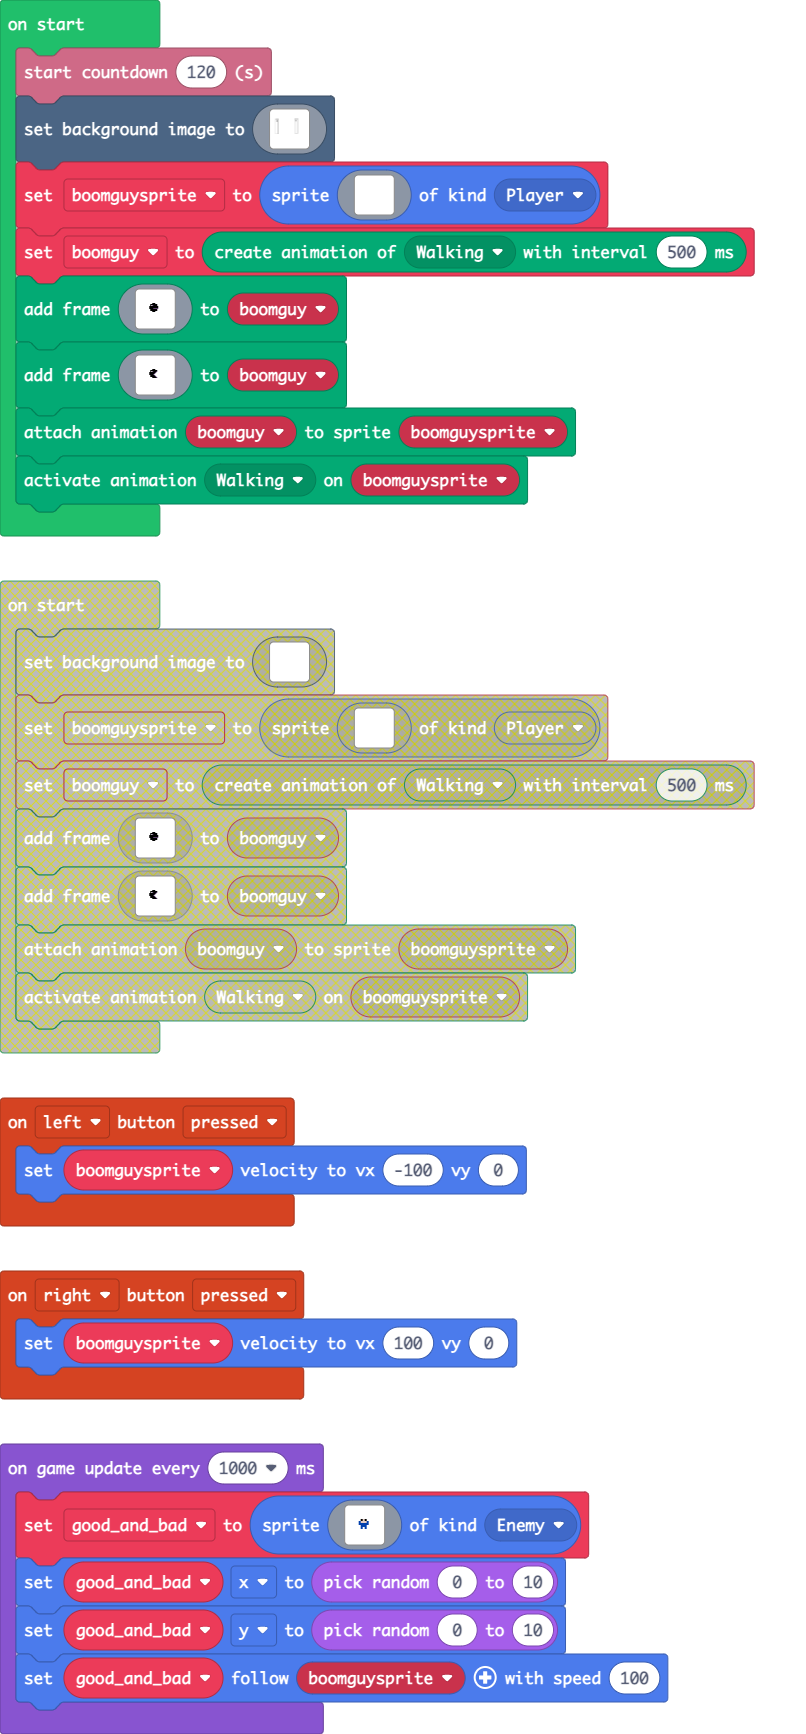
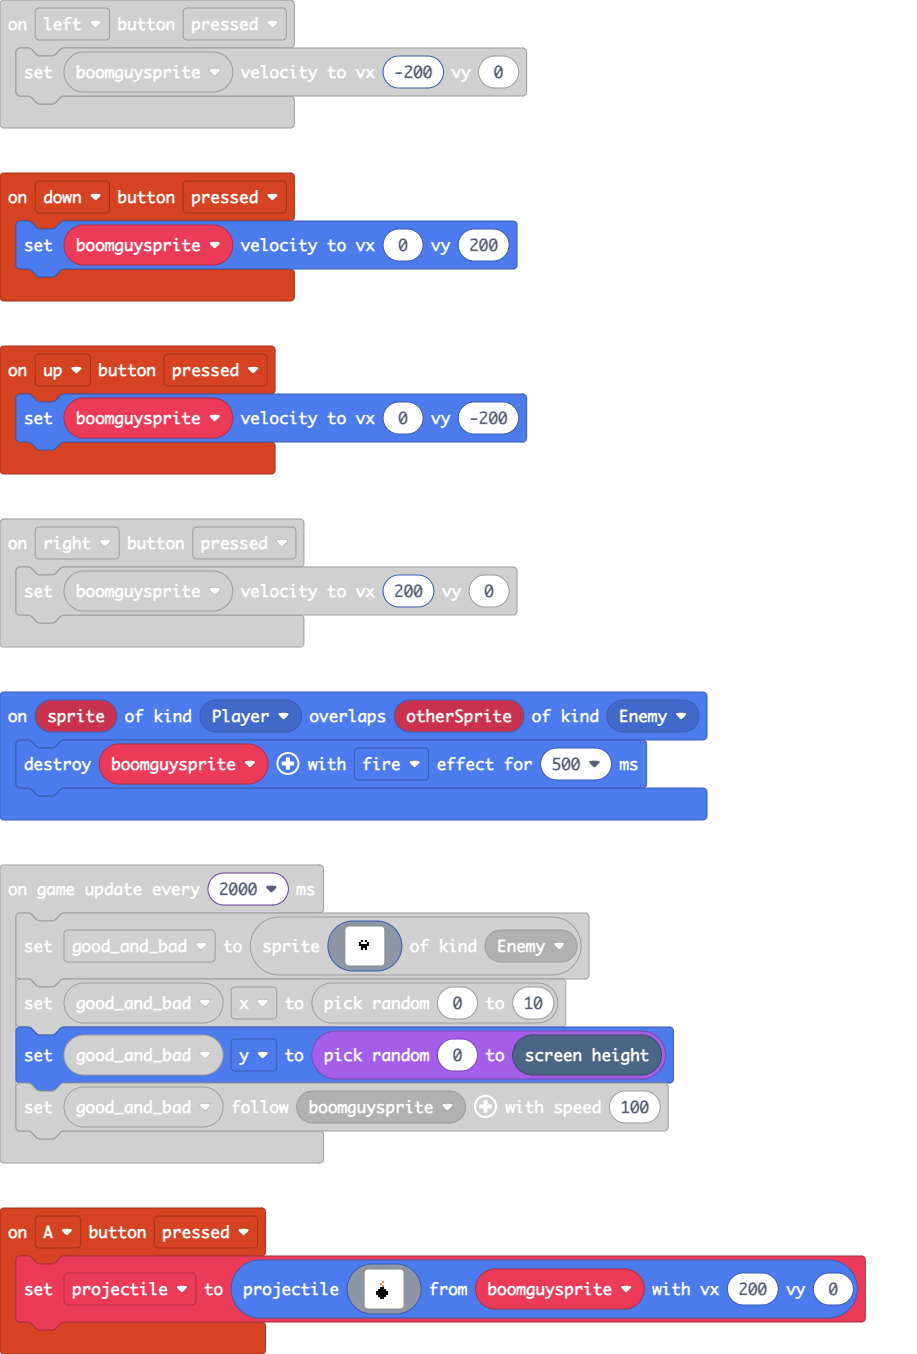
Update main.blocks, main.ts

diff --git a/main.ts b/main.ts
@@ -3,13 +3,43 @@ enum ActionKind {
     Idle,
     Jumping
 }
+controller.up.onEvent(ControllerButtonEvent.Pressed, function () {
+    boomguysprite.setVelocity(0, -200)
+})
+controller.A.onEvent(ControllerButtonEvent.Pressed, function () {
+    projectile = sprites.createProjectileFromSprite(img`
+        . . . . . . . . . . . . . . . . 
+        . . . . . . . . . . . . . . . . 
+        . . . . . . . . . . . . . . . . 
+        . . . . . . . . . . . . . . . . 
+        . . . . . . . 4 . . . . . . . . 
+        . . . . . . 4 . . . . . . . . . 
+        . . . . . . . 4 . . . . . . . . 
+        . . . . . . f f . . . . . . . . 
+        . . . . . f f f f . . . . . . . 
+        . . . . f f f f f f . . . . . . 
+        . . . . f f f f f f . . . . . . 
+        . . . . . f f f f . . . . . . . 
+        . . . . . . f f . . . . . . . . 
+        . . . . . . . . . . . . . . . . 
+        . . . . . . . . . . . . . . . . 
+        . . . . . . . . . . . . . . . . 
+        `, boomguysprite, 200, 0)
+})
 controller.left.onEvent(ControllerButtonEvent.Pressed, function () {
-    boomguysprite.setVelocity(-100, 0)
+    boomguysprite.setVelocity(-200, 0)
 })
 controller.right.onEvent(ControllerButtonEvent.Pressed, function () {
-    boomguysprite.setVelocity(100, 0)
+    boomguysprite.setVelocity(200, 0)
+})
+controller.down.onEvent(ControllerButtonEvent.Pressed, function () {
+    boomguysprite.setVelocity(0, 200)
+})
+sprites.onOverlap(SpriteKind.Player, SpriteKind.Enemy, function (sprite, otherSprite) {
+    boomguysprite.destroy(effects.fire, 500)
 })
 let good_and_bad: Sprite = null
+let projectile: Sprite = null
 let boomguysprite: Sprite = null
 info.startCountdown(120)
 scene.setBackgroundImage(img`
@@ -223,18 +253,18 @@ boomguy.addAnimationFrame(img`
     `)
 animation.attachAnimation(boomguysprite, boomguy)
 animation.setAction(boomguysprite, ActionKind.Walking)
-game.onUpdateInterval(1000, function () {
+game.onUpdateInterval(2000, function () {
     good_and_bad = sprites.create(img`
         . . . . . . . . . . . . . . . . 
         . . . . . . . . . . . . . . . . 
         . . . . . . . . . . . . . . . . 
         . . . . . . . . . . . . . . . . 
         . . . . . . . . . . . . . . . . 
-        . . . . . . f d f . . . . . . . 
-        . . . . . 8 d d d 8 . . . . . . 
-        . . . . . 8 8 8 8 8 . . . . . . 
-        . . . . . . 8 8 8 . . . . . . . 
-        . . . . . . 8 . 8 . . . . . . . 
+        . . . . . . f 1 f . . . . . . . 
+        . . . . . f 1 1 1 f . . . . . . 
+        . . . . . f f f f f . . . . . . 
+        . . . . . . f f f . . . . . . . 
+        . . . . . . f . f . . . . . . . 
         . . . . . . . . . . . . . . . . 
         . . . . . . . . . . . . . . . . 
         . . . . . . . . . . . . . . . . 
@@ -243,6 +273,6 @@ game.onUpdateInterval(1000, function () {
         . . . . . . . . . . . . . . . . 
         `, SpriteKind.Enemy)
     good_and_bad.x = randint(0, 10)
-    good_and_bad.y = randint(0, 10)
+    good_and_bad.y = randint(0, scene.screenHeight())
     good_and_bad.follow(boomguysprite, 100)
 })
